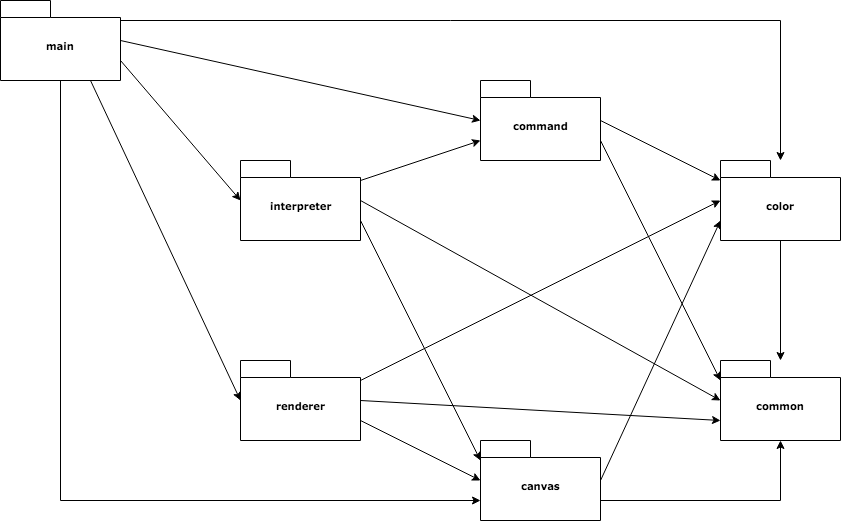
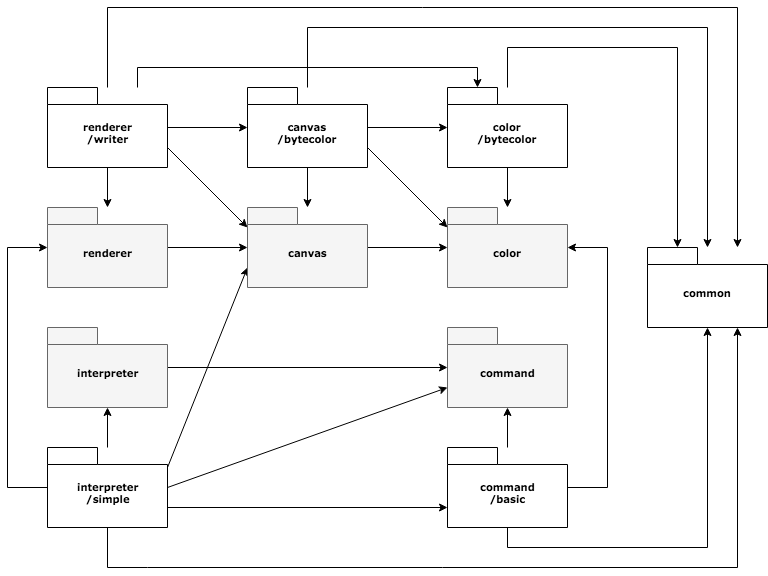
Updated comments and documentations; Tidied up source code

diff --git a/command/command.go b/command/command.go
@@ -1,3 +1,4 @@
+// Package command defines the Command interface, and the Parser interface.
 package command
 
 // Command represents a command defined in the project.
@@ -13,3 +14,22 @@ type Command interface {
 // NOTE:
 // See https://golang.org/src/go/ast/ast.go for examples of
 // dummy interface methods in the standard library.
+
+// Parser represents a command parser.
+type Parser interface {
+	// ParseCommand parses s and returns a Command.
+	//
+	// Errors
+	//
+	// common.ErrUnknownCommand:
+	// Will be returned if s contains a command not recognized by this parser.
+	//
+	// common.ErrInvalidArgumentCount:
+	// Will be returned if s contains a command recognized by this parser,
+	// but the argument count is invalid.
+	//
+	// Other errors:
+	// May be returned depending on the commands supported.
+	//
+	ParseCommand(s string) (Command, error)
+}

diff --git a/interpreter/simple/interpreter.go b/interpreter/simple/interpreter.go
@@ -1,3 +1,8 @@
+// Package simple defines the Interpreter type,
+// which is a stateless interpreter implementing interpreter.Interpreter,
+// and the CanvasContainer interface and the Quitter interface,
+// which are used to specify the requirements of the Interpreter type,
+// and the Environment type, which fulfills the requirements.
 package simple
 
 import (

diff --git a/command/basic/command.go b/command/basic/command.go
@@ -1,3 +1,7 @@
+// Package basic defines several "Value Object" types
+// which implement the command.Command interface,
+// and the Parser type,
+// which implements the command.Parser interface.
 package basic
 
 import (

diff --git a/interpreter/simple/environment.go b/interpreter/simple/environment.go
@@ -1,6 +1,3 @@
-// Package simple defines the CanvasContainer interface,
-// and the Environment type
-// which implements it and the renderer.Renderer interface.
 package simple
 
 import (

diff --git a/README.md b/README.md
@@ -135,32 +135,51 @@ this project is flexible enough to handle them all.
 
 ### Package Diagram
 
-There are 6 library packages and 1 main package, as shown in the diagram:
+There are 5 library packages for interfaces, 6 library pachages for non-interfaces,
+and 1 main package. The library package are shown in the following diagram:
 
 ![Package Diagram](./images/PackageDiagram.png)
 
-Click [here](https://drive.google.com/file/d/0B6JV6ICUUqcuazU1RDV0MUNrMmM/view?usp=sharing) for the full-size diagram.
+Click [here](https://drive.google.com/file/d/1WtJBLJyGjeKflJlvTQpVqqReJshxw5i4/view?usp=sharing) for the full-size diagram.
 
-Package common defines types and variables
+#### Interface Packages
+
+Package `color` defines the `Color` interface and the `Parser` interface.
+
+Package `canvas` defines the `Canvas` interface and the `BufferBasedCanvas` interface.
+
+Package `renderer` defines the `Renderer` interface.
+
+Package `command` defines the `Command` interface, and the `Parser` interface.
+
+Package `interpreter` defines the `Interpreter` interface.
+
+#### Non-Interface Packages
+
+Package `common` defines types and variables
 which are needed by other packages in the project.
 
-Package color defines the `Color` interface,
-the `ByteColor` type which implements it, the `Parser` interface,
-and the `ByteColorParser` type which implements it.
+Package `bytecolor` (`color/bytecolor`) defines the `ByteColor` type,
+which implements the `color.Color` interface,
+and the `Parser` type,
+which implements the `color.Parser` interface.
 
-Package canvas defines the `Canvas` interface,
-the `BufferBasedCanvas` interface,
-and the `ByteColorBuffer` type which implements it.
+Package `bytecolor` (`canvas/bytecolor`) defines the `Buffer` type,
+which implements the `canvas.BufferBasedCanvas` interface.
 
-Package command defines the `Command` interface,
-several types which implement it, the `Parser` interface,
-and the `BasicParser` type which implements it.
+Package `basic` defines several "Value Object" types
+which implement the `command.Command` interface,
+and the `Parser` type,
+which implements the `command.Parser` interface.
 
-Package renderer defines the `Renderer` interface,
-and the `WriterRenderer` type which implements it.
+Package `writer` defines the `Renderer` type,
+which implements the `renderer.Renderer` interface.
 
-Package interpreter defines the `Interpreter` interface,
-and the `BasicInterpreter` type which implements it.
+Package `simple` defines the `Interpreter` type,
+which is a stateless interpreter implementing `interpreter.Interpreter`,
+and the `CanvasContainer` interface and the `Quitter` interface,
+which are used to specify the requirements of the `Interpreter` type,
+and the `Environment` type, which fulfills the requirements.
 
 ### Class Diagram
 
